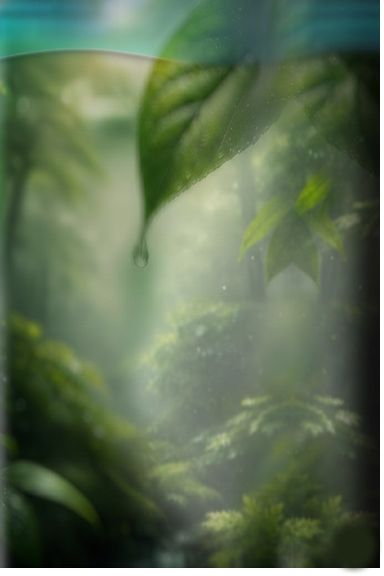
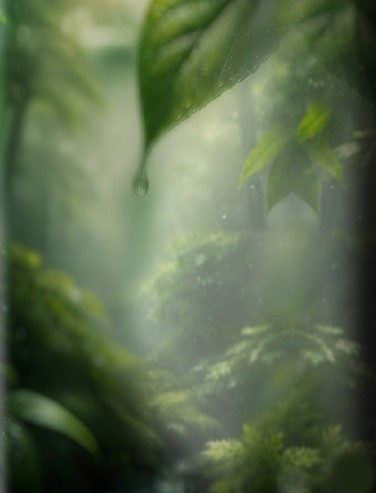
project testing

diff --git a/src/app/components/Hero.jsx b/src/app/components/Hero.jsx
@@ -35,18 +35,17 @@ export default function HeroSection() {
             <p
               style={{
                 fontFamily: "'Kallisto', sans-serif",
-                fontWeight: 900,
                 fontSize: "44px",
-                letterSpacing: "0.06em",
+                letterSpacing: "0.08em",
                 lineHeight: 1.05,
                 margin: 0,
                 padding: 0,
               }}
             >
-              <span style={{ color: "#9DFF00", fontWeight: 900 }}>
+              <span style={{ color: "#c8d820", fontWeight: 900 }}>
                 750 Million people{" "}
               </span>
-              <span style={{ color: "#9DFF00", fontWeight: 700 }}>
+              <span style={{ color: "#a0b828", fontWeight: 700 }}>
                 suffer from
               </span>
             </p>
@@ -57,11 +56,11 @@ export default function HeroSection() {
                 fontFamily: "'Kallisto', sans-serif",
                 fontWeight: 900,
                 fontSize: "44px",
-                letterSpacing: "0.06em",
+                letterSpacing: "0.08em",
                 lineHeight: 1.05,
                 margin: 0,
                 padding: 0,
-                color: "#9DFF00",
+                color: "#a0b828",
               }}
             >
               ringing in the ears.
@@ -93,14 +92,14 @@ export default function HeroSection() {
                 fontSize: "14px",
                 lineHeight: 1.6,
                 margin: 0,
-                color: "#9aaa88",
+                color: "#a8c030",
               }}
             >
               <strong
                 style={{
                   fontFamily: "'Kallisto', sans-serif",
                   fontWeight: 700,
-                  color: "#b8c8a0",
+                  color: "#a8c030",
                   fontSize: "16px",
                   letterSpacing: "0.04em",
                   marginRight: "2px",
@@ -116,8 +115,8 @@ export default function HeroSection() {
               style={{
                 fontFamily: "'Seravek', sans-serif",
                 fontSize: "15px",
-                fontWeight: 700,
-                color: "#b8c8a0",
+                fontWeight: 400,
+                color: "#a8c030",
                 margin: "1px 0 0 0",
                 lineHeight: 1.65,
               }}

diff --git a/src/app/components/ListenSection.jsx b/src/app/components/ListenSection.jsx
@@ -48,12 +48,12 @@ const ListenSection = () => {
             </p>
 
             {/* Arrow slider track */}
-            <div className="relative flex items-center w-[200px] h-[2px] bg-[#4a6a3a]">
+            <div className="relative flex items-center w-[200px] h-[3px] bg-[#4a6a3a]">
               {/* filled green portion */}
               <div className="absolute left-0 top-0 h-full w-[70%] bg-[#6abf4b]" />
               {/* arrow head at end */}
               <div className="absolute right-0 top-1/2 -translate-y-1/2">
-                <svg width="10" height="10" viewBox="0 0 10 10" fill="none">
+                <svg width="14" height="14" viewBox="0 0 10 10" fill="none">
                   <polygon points="0,0 10,5 0,10" fill="#6abf4b" />
                 </svg>
               </div>
@@ -133,23 +133,9 @@ const ListenSection = () => {
           />
 
           {/* Forest Rain */}
-          {/* <div className="flex items-center gap-3 bg-[rgba(0,0,0,0.45)] border border-[rgba(100,160,80,0.25)] rounded-sm px-3 py-2.5 cursor-pointer hover:border-[rgba(100,160,80,0.5)] transition-colors group">
-              
-              <div className="w-0 h-0 border-y-[7px] border-l-[13px] border-y-transparent border-l-[#6abf4b] shrink-0 group-hover:border-l-[#8adf6b] transition-colors" />
-              <p
-                className="text-[12px] leading-none text-[#c8d0b8] m-0 tracking-[0.01em]"
-                style={{ fontFamily: "var(--font-kallisto)", fontWeight: 500 }}
-              >
-                Forest Rain :{" "}
-                <span className="text-[#a0b090]" style={{ fontWeight: 400 }}>
-                  lite
-                </span>
-              </p>
-            </div> */}
-
           <SoundPreviewButton
             title="Forest Rain :"
-            subtitle="lite"
+            subtitle="lite drizzle"
             audioSrc="TR-Rain-lite.mst13.mp3" // Path to your file in the public folder
             isActive={activeTrack === "forest"}
             onToggle={() => handleToggle("forest")}

diff --git a/src/app/globals.css b/src/app/globals.css
@@ -1,41 +1,40 @@
 @import "tailwindcss";
 
 :root {
-  --background: #ffffff;
-  --foreground: #171717;
+  --color-olive: #a8c030;
+  --color-yellow-green: #c8d820;
+  --color-body-text: #d0d8c0;
+  --color-muted: #9aaa88;
+  --font-kallisto: "Kallisto", sans-serif;
+  --font-seravek: "Seravek", sans-serif;
 }
 
-@theme inline {
-  --color-background: var(--background);
-  --color-foreground: var(--foreground);
-  --font-sans: var(--font-geist-sans);
-  --font-mono: var(--font-geist-mono);
-}
-
-@media (prefers-color-scheme: dark) {
-  :root {
-    --background: #0a0a0a;
-    --foreground: #ededed;
-  }
-}
-
-/* body {
-  background: var(--background);
-  background-image: url("/Frame.jpg");
-  background-size: cover;
-  background-attachment: fixed;
-  background-position: center top;
-  color: var(--foreground);
-  font-family: Arial, Helvetica, sans-serif;
-} */
 body {
-  background: var(--background);
-  background-image: url("/Frame.jpg");
-  background-size: cover;
+  background-color: #1a2e10;
+  background-image: url('/Frame.jpg');
   background-attachment: fixed;
-  background-position: center -300px; /* negative = cuts from top */
-  color: var(--foreground);
-  font-family: Arial, Helvetica, sans-serif;
+  background-size: cover;
+ 
+  background-position: center top;
+  color: var(--color-body-text);
+  font-family: var(--font-seravek);
+  position: relative;
+  margin: 0;
+  padding: 0;
+}
+
+body::before {
+  content: "";
+  position: fixed;
+  inset: 0;
+  z-index: 0;
+  background: linear-gradient(160deg, rgba(20,40,15,0.50), rgba(15,35,25,0.56));
+  pointer-events: none;
+}
+
+body > * {
+  position: relative;
+  z-index: 1;
 }
 
 /* ── KALLISTO ───────────────────────────────────────── */

diff --git a/src/app/components/MaskingSection.jsx b/src/app/components/MaskingSection.jsx
@@ -123,14 +123,14 @@ const MaskingSection = () => {
           {/* ── tinnitus relief app ── */}
           <p className="m-0 mb-0.5 leading-none">
             <span
-              className="text-[#9DFF00] tracking-[0.02em] text-[44px]"
-              style={{ fontFamily: "var(--font-kallisto)", fontWeight: 900 }}
+              className="text-[#9DFF00] tracking-[0.05em] text-[44px]"
+              style={{ fontFamily: "var(--font-kallisto)", fontWeight: 900, textShadow: "0 1px 2px rgba(0,0,0,0.5)" }}
             >
               tinnitus relief
             </span>{" "}
             <span
-              className="text-[#9DFF00] tracking-[0.02em] text-[44px]"
-              style={{ fontFamily: "var(--font-kallisto)", fontWeight: 700 }}
+              className="text-[#9DFF00] tracking-[0.05em] text-[44px]"
+              style={{ fontFamily: "var(--font-kallisto)", fontWeight: 700, textShadow: "0 1px 2px rgba(0,0,0,0.5)" }}
             >
               app
             </span>
@@ -188,7 +188,6 @@ const MaskingSection = () => {
             {[
               "No joke, this has literally changed my life.",
               "Without the constant nag of that high squeal\nin my head, my BP has gone down!!",
-              "I'm now in a constant state of deep relaxation\nand I've never felt better.",
             ].map((quote, i) => (
               <div key={i}>
                 <div className="flex gap-0.5 mb-1">

diff --git a/src/app/components/TryItSection.jsx b/src/app/components/TryItSection.jsx
@@ -42,10 +42,10 @@ const TryItSection = () => {
             </p>
 
             {/* Arrow */}
-            <div className="relative flex items-center w-[120px] h-[2px] bg-[yellowgreen]">
+            <div className="relative flex items-center w-[120px]  h-[3px] bg-[yellowgreen]">
               <div className="absolute left-0 top-0 h-full w-full bg-[#d8d80a]" />
               <div className="absolute right-[-2px] top-1/2 -translate-y-1/2">
-                <svg width="12" height="12" viewBox="0 0 10 10" fill="none">
+                <svg width="14" height="14" viewBox="0 0 10 10" fill="none">
                   <polygon points="0,0 10,5 0,10" fill="#6abf4b" />
                 </svg>
               </div>

diff --git a/src/app/components/SoundPreviewButton.jsx b/src/app/components/SoundPreviewButton.jsx
@@ -111,7 +111,7 @@ export default function SoundPreviewButton({
       onClick={onToggle}
       className={`
         flex items-center gap-4 cursor-pointer transition-all duration-500
-        rounded-[10px] px-4 py-3 group select-none
+        rounded-[2px] px-4 py-3 group select-none
         /* Reduced overall width constraint */
         max-w-[340px] w-full 
       `}
